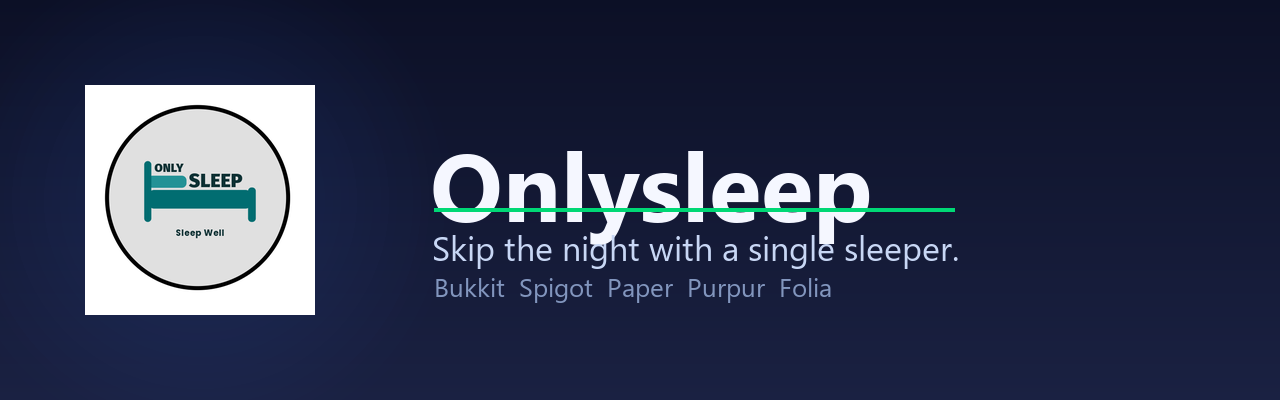
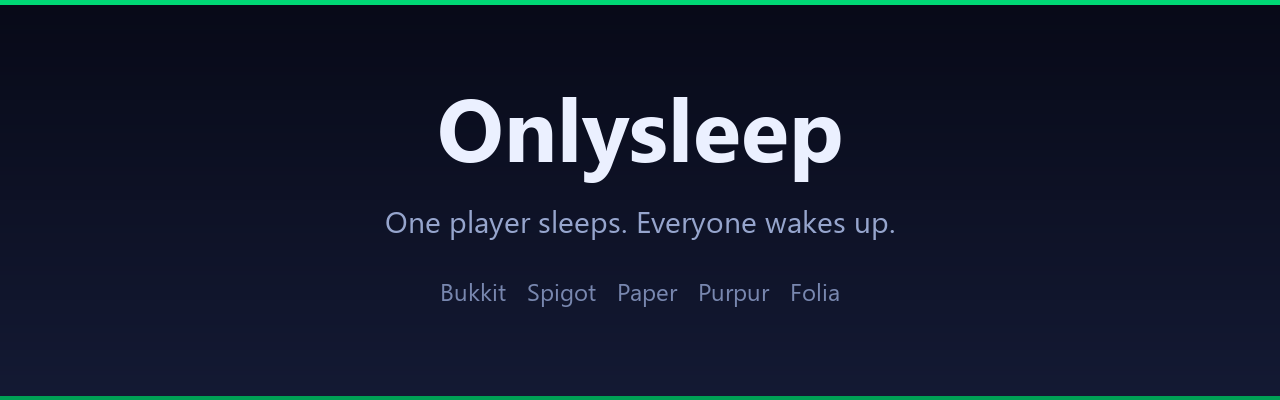
docs: add visual section images to Modrinth page
- 9 generated PNGs: section headings (features, installation, commands,
  permissions, placeholders), config preview, commands preview,
  placeholders preview, installation steps
- All images verified with Gemini vision (7-9/10 ratings)
- MODRINTH.md now embeds all images via GitHub raw URLs
- Regenerated banner and modrinth-page as text-only (no logo)
- Sponsor block remains at end before license

Changed region(s): [[0.0, 0.0, 1.0, 0.93], [0.0, 0.99, 1.0, 1.0], [0.3438, 0.69, 0.6562, 0.78]]

diff --git a/MODRINTH.md b/MODRINTH.md
@@ -1,6 +1,6 @@
-# Onlysleep
+![Onlysleep](https://raw.githubusercontent.com/DemonZ-Development/Onlysleep/master/assets/modrinth-page.png)
 
-![Onlysleep](assets/modrinth-page.png)
+# Onlysleep
 
 **One player sleeps. Everyone wakes up.**
 
@@ -8,7 +8,7 @@ No complicated setup. No wall of config. Drop the JAR in, restart, and players c
 
 ---
 
-## Features
+![Features](https://raw.githubusercontent.com/DemonZ-Development/Onlysleep/master/assets/modrinth/features-heading.png)
 
 - One-player sleep by default, or any percentage you want
 - Per-world sleep (each world tracks separately)
@@ -21,28 +21,28 @@ No complicated setup. No wall of config. Drop the JAR in, restart, and players c
 - PlaceholderAPI: 12+ placeholders
 - Update checker and bStats (opt-out available)
 
-## Installation
+---
 
-1. Download the JAR.
-2. Drop it into your `plugins/` folder.
-3. Restart your server.
-4. Edit `plugins/Onlysleep/config.yml` if you want to tweak anything.
-5. Apply changes with `/onlysleep reload`.
+
+![Installation](https://raw.githubusercontent.com/DemonZ-Development/Onlysleep/master/assets/modrinth/installation-heading.png)
+
+![Installation Steps](https://raw.githubusercontent.com/DemonZ-Development/Onlysleep/master/assets/modrinth/installation-steps.png)
 
 **Requirements:** Java 21+, Minecraft 1.16.5+. Works on its own. PlaceholderAPI is optional.
 
-## Commands
+---
 
-| Command | Description | Permission |
-|---------|-------------|------------|
-| `/onlysleep` | Show help | `onlysleep.command` |
-| `/onlysleep reload` | Reload config | `onlysleep.reload` |
-| `/onlysleep info` | Plugin info | `onlysleep.info` |
-| `/onlysleep status` | Status overview | `onlysleep.status` |
+
+![Commands](https://raw.githubusercontent.com/DemonZ-Development/Onlysleep/master/assets/modrinth/commands-heading.png)
+
+![Commands Preview](https://raw.githubusercontent.com/DemonZ-Development/Onlysleep/master/assets/modrinth/commands-preview.png)
 
 **Aliases:** `/os`, `/sleep`
 
-## Permissions
+---
+
+
+![Permissions](https://raw.githubusercontent.com/DemonZ-Development/Onlysleep/master/assets/modrinth/permissions-heading.png)
 
 | Permission | Default | Description |
 |------------|---------|-------------|
@@ -54,7 +54,10 @@ No complicated setup. No wall of config. Drop the JAR in, restart, and players c
 | `onlysleep.exempt` | None | Excluded from sleep (operators sleep by default) |
 | `onlysleep.update` | OP | Update alerts |
 
-## Configuration
+---
+
+
+![Configuration](https://raw.githubusercontent.com/DemonZ-Development/Onlysleep/master/assets/modrinth/config-preview.png)
 
 Defaults work fine. The main knob is `sleep-percentage` in `config.yml`:
 
@@ -64,9 +67,14 @@ Defaults work fine. The main knob is `sleep-percentage` in `config.yml`:
 
 Set `per-world-sleep: false` if you want global counting across all worlds.
 
-See [`config.yml`](src/main/resources/config.yml) for every option and [`messages.yml`](src/main/resources/messages.yml) for message customization.
+See [`config.yml`](https://github.com/DemonZ-Development/Onlysleep/blob/master/src/main/resources/config.yml) for every option and [`messages.yml`](https://github.com/DemonZ-Development/Onlysleep/blob/master/src/main/resources/messages.yml) for message customization.
 
-## PlaceholderAPI
+---
+
+
+![PlaceholderAPI](https://raw.githubusercontent.com/DemonZ-Development/Onlysleep/master/assets/modrinth/placeholders-heading.png)
+
+![PlaceholderAPI Preview](https://raw.githubusercontent.com/DemonZ-Development/Onlysleep/master/assets/modrinth/placeholders-preview.png)
 
 If you have [PlaceholderAPI](https://placeholderapi.com/) installed, these placeholders are available:
 
@@ -78,7 +86,7 @@ If you have [PlaceholderAPI](https://placeholderapi.com/) installed, these place
 | `%onlysleep_total%` | Total eligible players in the world |
 | `%onlysleep_progress%` | % of required sleepers achieved (0-100) |
 | `%onlysleep_progress_bar%` | Visual progress bar |
-| `%onlysleep_sleeping_names%` | Comma-separated names of sleeping players |
+| `%onlysleep_sleeping_names%` | Names of sleeping players |
 | `%onlysleep_status%` | "Sleeping" or "Awake" |
 | `%onlysleep_is_sleeping%` | `true`/`false` |
 | `%onlysleep_is_night%` | `true`/`false` if it's night |
@@ -91,6 +99,8 @@ If you have [PlaceholderAPI](https://placeholderapi.com/) installed, these place
 | `%onlysleep_world_sleeping_<world>%` | Sleeping count in a specific world |
 | `%onlysleep_world_required_<world>%` | Required count in a specific world |
 | `%onlysleep_world_total_<world>%` | Total eligible in a specific world |
+
+---
 
 ## Building
 
